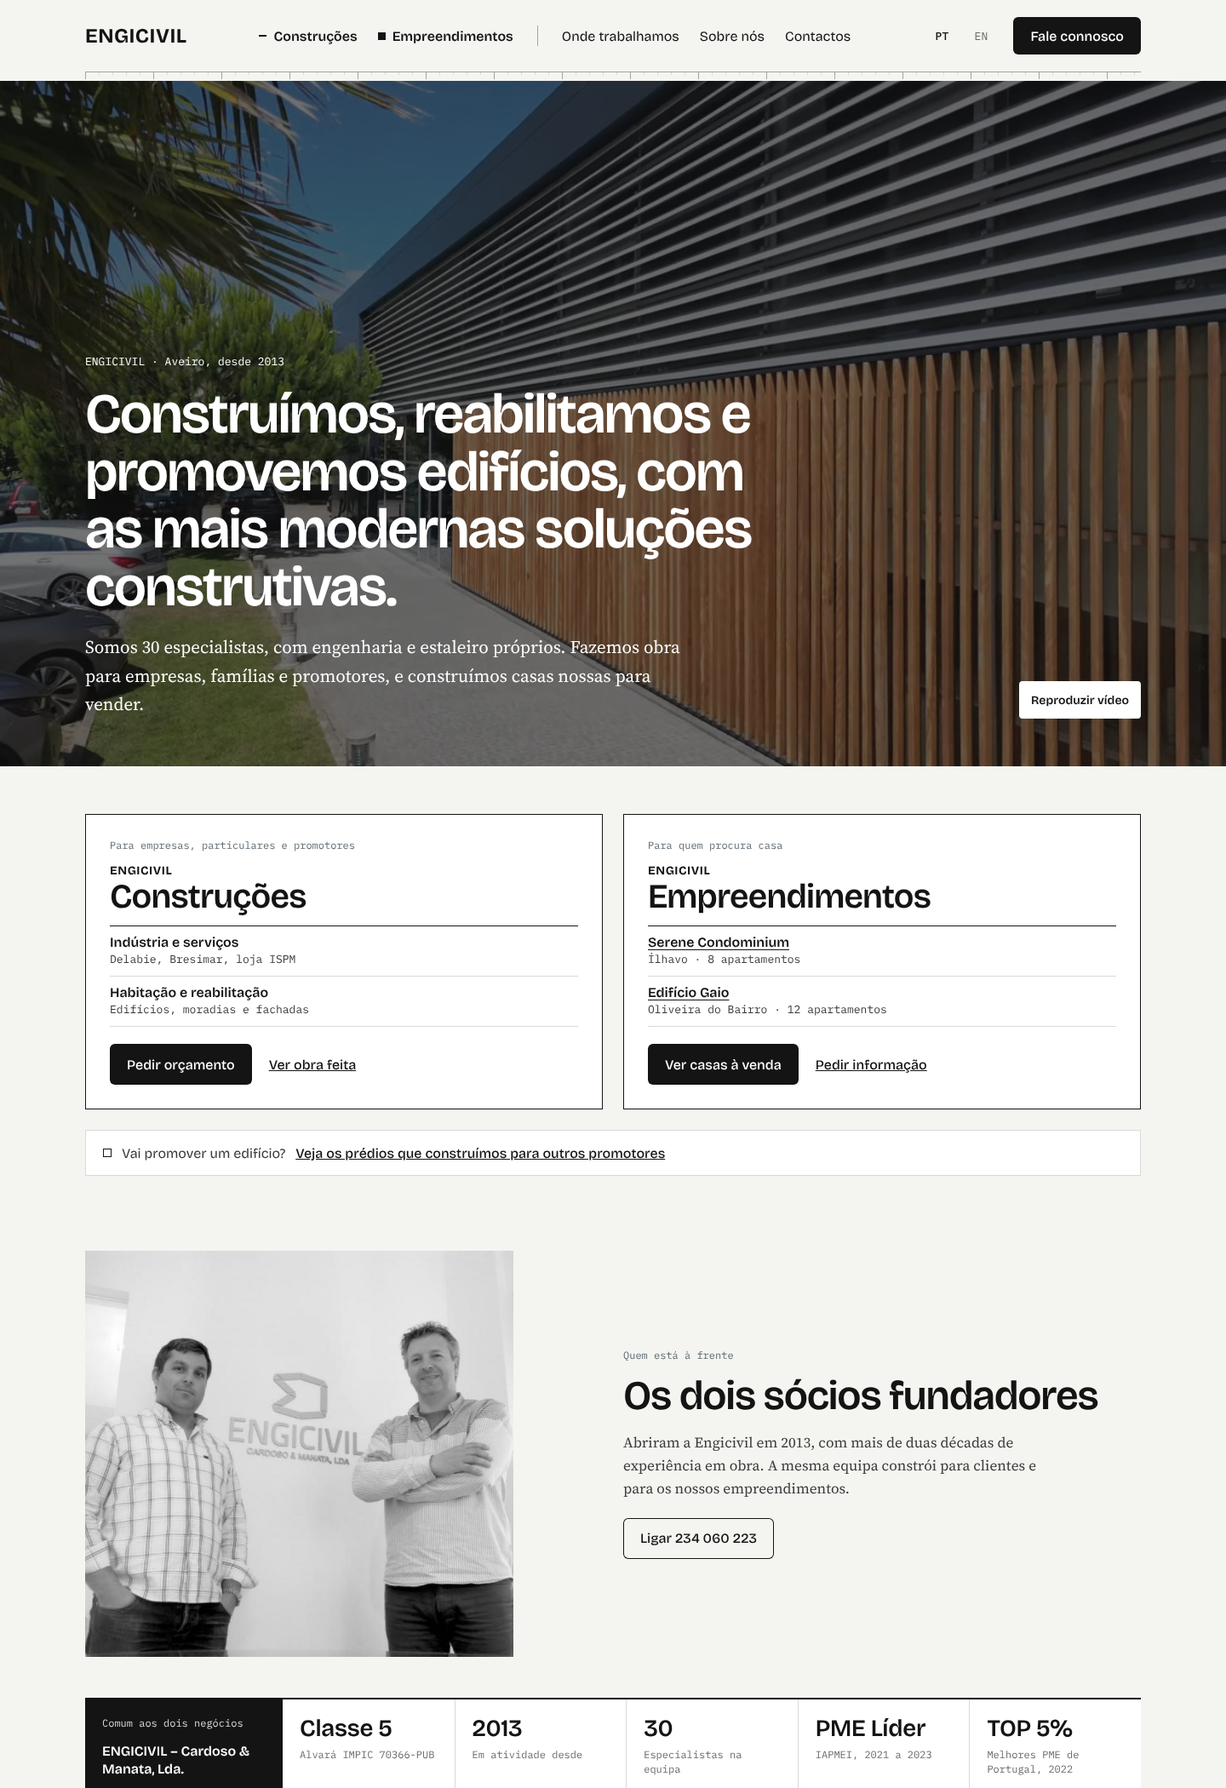
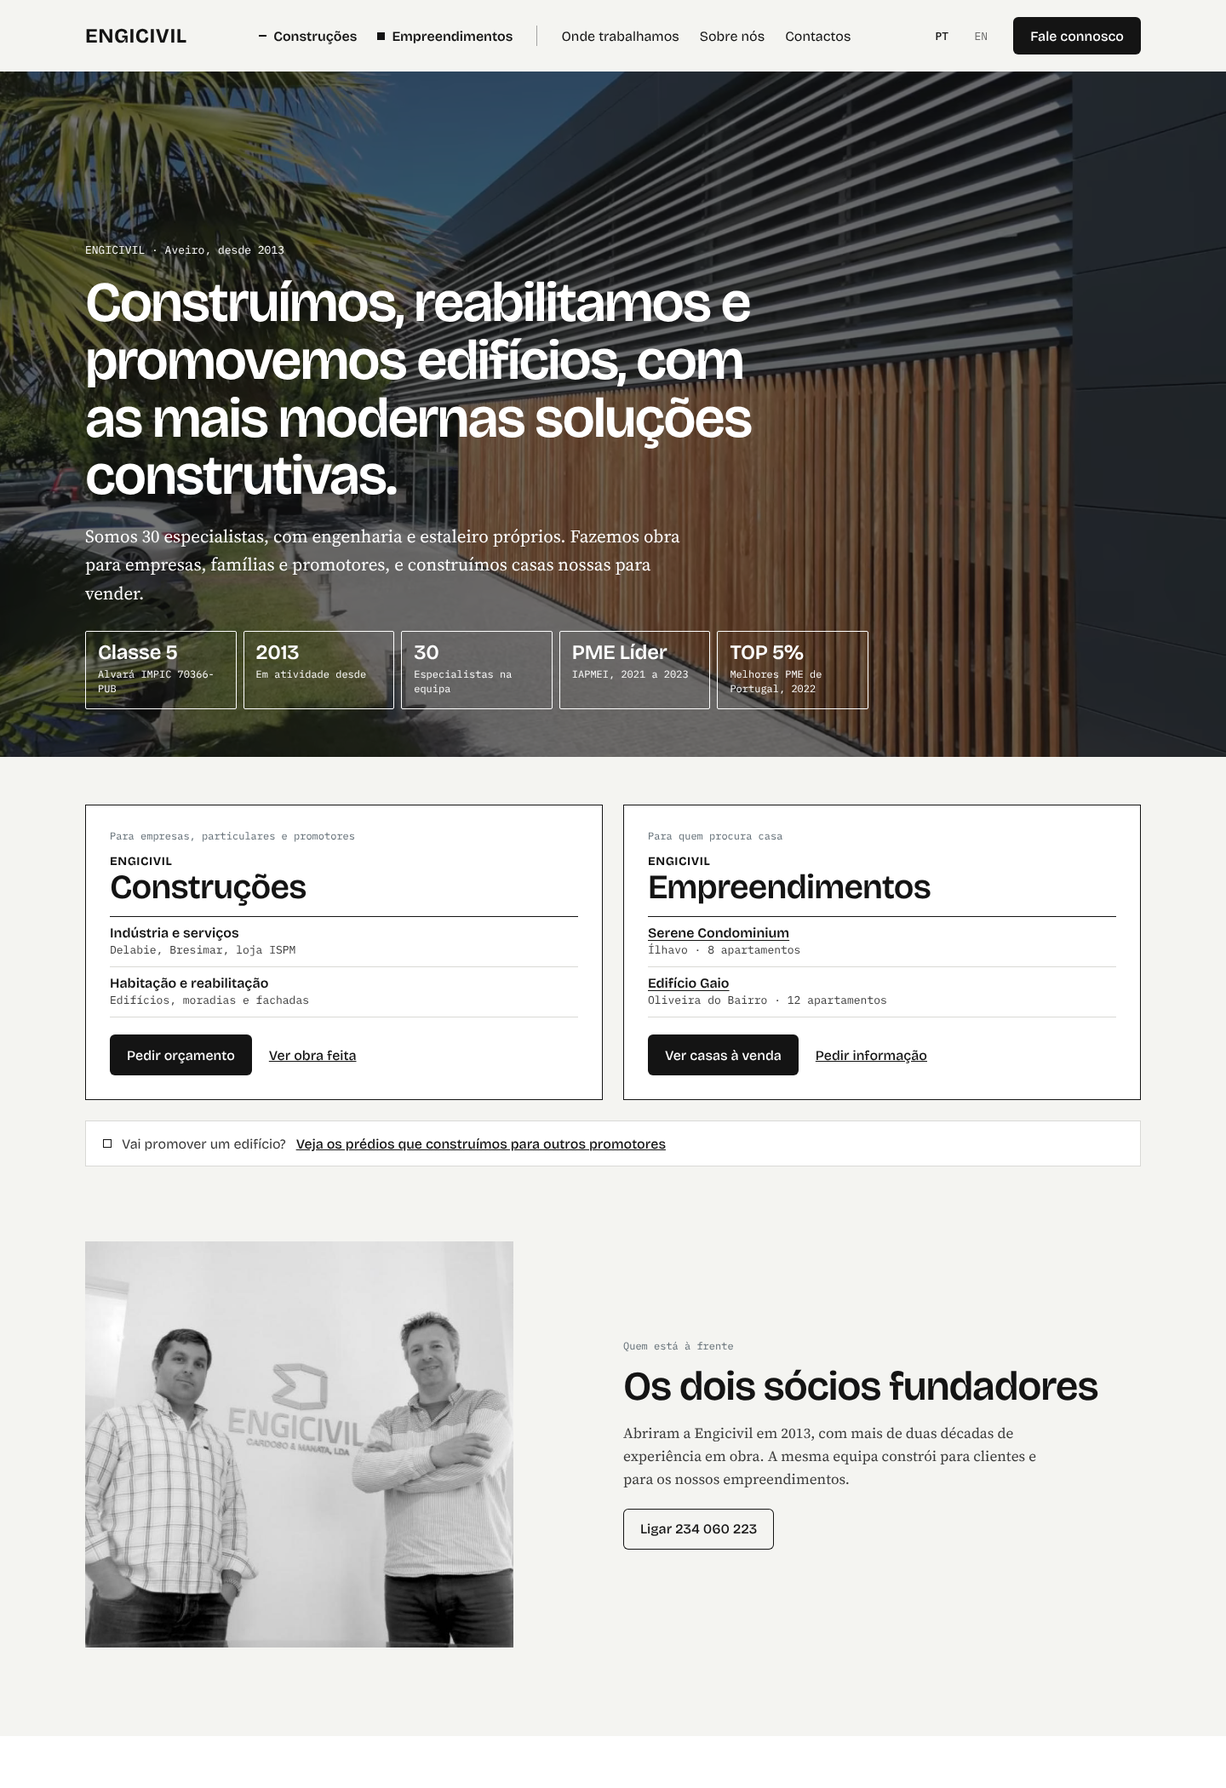
G: carimbos dentro do hero, sem régua nem botão de pausa
- Régua do cabeçalho removida
- Botão «Pausar vídeo» removido (o vídeo continua a respeitar reduzir movimento e poupança de dados)
- Carimbo passa da secção dos sócios para o hero, por baixo do subtítulo, como 5 carimbos individuais
- STATUS e LOG da G; capturas

Claude-Session: https://claude.ai/code/session_019up6xpm4ofoFJjoF8E32hc

diff --git a/prototypes/g/styles.css b/prototypes/g/styles.css
@@ -121,22 +121,18 @@ img { max-width: 100%; }
 .biz-bar a { display: flex; flex-direction: column; justify-content: center; min-height: 56px; padding: 6px 12px; border: 1px solid var(--ink); border-radius: var(--radius); text-decoration: none; font-family: var(--f-ui); }
 .biz-bar__name { font-size: 1.0625rem; font-weight: 600; }
 
-.ruler svg { display: block; border-top: 1px solid var(--g400); }
 
 /* ---------- Hero: vídeo a toda a largura, título por cima ---------- */
 /* Véu escuro liso (sem gradiente): com 60 %, mesmo um píxel branco do vídeo fica a 4,8:1 contra texto branco (AA). Texto do hero só em branco. */
 .hero { position: relative; isolation: isolate; display: flex; align-items: flex-end; min-height: clamp(560px, calc(100svh - 95px), 820px); overflow: hidden; background: var(--ink); color: var(--white); }
 .hero::before { content: ""; position: absolute; inset: 0; z-index: -1; background: rgb(20 20 20 / 0.6); }
 .hero-video { position: absolute; inset: 0; z-index: -2; display: block; width: 100%; height: 100%; object-fit: cover; }
-.hero-inner { flex: 1 1 auto; min-width: 0; padding-top: 96px; padding-bottom: 56px; display: flex; flex-wrap: wrap; align-items: flex-end; justify-content: space-between; gap: 24px; }
-.hero-intro { display: flex; flex-direction: column; gap: 20px; max-width: 820px; }
+.hero-inner { flex: 1 1 auto; min-width: 0; padding-top: 96px; padding-bottom: 56px; }
+.hero-intro { display: flex; flex-direction: column; gap: 20px; max-width: 920px; }
 .hero-eyebrow { margin: 0; font-family: var(--f-mono); font-size: 13px; color: var(--white); }
 .hero-title { margin: 0; font-family: var(--f-ui); font-size: clamp(2.25rem, 4.6vw, 4.25rem); line-height: 1.02; font-weight: 600; letter-spacing: -0.03em; max-width: 20ch; }
 .hero-lead { margin: 0; font-size: clamp(1.125rem, 1.5vw, 1.3125rem); line-height: 1.6; color: var(--white); max-width: 34em; }
 .hero :focus-visible { outline-color: var(--white); }
-.video-toggle { display: none; flex: none; min-height: 44px; padding: 0 14px; border: 0; border-radius: 4px; background: var(--white); color: var(--ink); font-family: var(--f-ui); font-size: 0.875rem; font-weight: 600; cursor: pointer; }
-.js .video-toggle { display: inline-flex; align-items: center; }
-.video-toggle:hover { background: var(--paper); }
 
 /* ---------- Os dois negócios (cartões só de texto) ---------- */
 .paths-sec { padding: 56px 0 0; }
@@ -162,9 +158,8 @@ img { max-width: 100%; }
 .fig-cap { display: grid; grid-template-columns: 52px minmax(0, 1fr); gap: 12px; font-size: 0.9375rem; line-height: 1.5; color: var(--g700); }
 .fig-cap__n { font-family: var(--f-mono); font-size: 12px; line-height: 1.9; color: var(--ink); }
 
-/* ---------- Sócios + carimbo ---------- */
+/* ---------- Sócios fundadores ---------- */
 .founders { padding: 88px 0 104px; }
-.founders > .wrap { display: flex; flex-direction: column; gap: 48px; }
 .founders__img { display: block; width: 100%; aspect-ratio: 770 / 730; object-fit: cover; }
 .founders__text { display: flex; flex-direction: column; gap: 16px; }
 .founders__text .kicker { margin: 0; }
@@ -172,16 +167,11 @@ img { max-width: 100%; }
 .founders__title { margin: 0; font-family: var(--f-ui); font-size: clamp(2rem, 3.4vw, 3rem); line-height: 1.04; font-weight: 600; letter-spacing: -0.025em; }
 .founders__text .actions { margin-top: 4px; }
 
-/* Carimbo (como o bloco de legenda de um desenho técnico): rótulo escuro + 5 factos */
-.proof { display: grid; grid-template-columns: minmax(0, 232px) minmax(0, 1fr); background: var(--white); border-top: 2px solid var(--ink); border-bottom: 1px solid var(--ink); }
-.proof__label { margin: 0; padding: 20px; display: flex; flex-direction: column; justify-content: space-between; gap: 12px; background: var(--ink); color: var(--white); }
-.proof__kicker { font-family: var(--f-mono); font-size: 12px; line-height: 1.4; color: var(--g200); }
-.proof__name { font-family: var(--f-ui); font-size: 1rem; line-height: 1.3; font-weight: 600; }
-.facts { margin: 0; display: grid; grid-template-columns: repeat(5, minmax(0, 1fr)); }
-.facts > div { padding: 20px 20px 22px; border-left: 1px solid var(--g200); display: flex; flex-direction: column-reverse; justify-content: flex-end; gap: 8px; }
-.facts > div:first-child { border-left: 0; }
-.facts dt { font-family: var(--f-mono); font-size: 12px; line-height: 1.45; color: var(--g500); }
-.facts dd { margin: 0; font-family: var(--f-ui); font-size: 1.75rem; line-height: 1; font-weight: 600; letter-spacing: -0.01em; white-space: nowrap; }
+/* Carimbos: um por facto, por baixo do subtítulo do hero (contorno branco sobre o véu) */
+.stamps { margin: 8px 0 0; display: grid; grid-template-columns: repeat(5, minmax(0, 1fr)); gap: 8px; }
+.stamps > div { padding: 12px 14px 14px; border: 1px solid var(--white); border-radius: 2px; display: flex; flex-direction: column-reverse; justify-content: flex-end; gap: 6px; }
+.stamps dt { font-family: var(--f-mono); font-size: 12px; line-height: 1.4; color: var(--white); }
+.stamps dd { margin: 0; font-family: var(--f-ui); font-size: 1.5rem; line-height: 1; font-weight: 600; letter-spacing: -0.01em; white-space: nowrap; }
 
 /* ---------- Cabeçalho de secção ---------- */
 .sec-head { row-gap: 16px; border-top: 2px solid var(--ink); padding-top: 20px; }
@@ -367,15 +357,10 @@ textarea.input { padding: 12px; line-height: 1.5; resize: vertical; }
   .nav-sep { display: none; }
   .header-tools { margin-top: 16px; justify-content: space-between; }
   .biz-bar { display: grid; grid-template-columns: repeat(2, minmax(0, 1fr)); gap: 8px; padding-bottom: 12px; }
-  .ruler { display: none; }
 }
 
 /* ---------- Ecrãs médios (≤ 1080 px) ---------- */
 @media (max-width: 1080px) {
-  .proof { grid-template-columns: minmax(0, 1fr); }
-  .proof__label { flex-direction: row; flex-wrap: wrap; align-items: baseline; padding: 12px 16px; }
-  .facts > div { padding: 16px 12px 18px; }
-  .facts dd { font-size: 1.25rem; }
   .ix-head { display: none; }
   .ix-place { grid-template-columns: minmax(0, 1fr); row-gap: 12px; }
   .ix-entry .m-label { display: block; }
@@ -394,14 +379,9 @@ textarea.input { padding: 12px; line-height: 1.5; resize: vertical; }
   .path__name { font-size: 2.25rem; }
   .paths-sec { padding-top: 32px; }
   .founders { padding: 72px 0 88px; }
-  .founders > .wrap { gap: 40px; }
-  .facts { grid-template-columns: repeat(2, minmax(0, 1fr)); }
-  .facts > div { padding: 16px; border-left: 0; border-top: 1px solid var(--g200); }
-  .facts > div:first-child { border-top: 0; }
-  .facts > div:nth-child(2) { border-top: 0; }
-  .facts > div:nth-child(even) { border-left: 1px solid var(--g200); }
-  .facts > div:last-child { grid-column: 1 / -1; }
-  .facts dd { font-size: 1.5rem; }
+  .stamps { display: grid; grid-template-columns: repeat(2, minmax(0, 1fr)); }
+  .stamps > div:last-child { grid-column: 1 / -1; }
+  .stamps dd { font-size: 1.25rem; }
 
   .pair, .areas, .boxes, .steps, .fields, .radios, .foot { grid-template-columns: minmax(0, 1fr); }
   .areas { gap: 32px; }

diff --git a/prototypes/g/index.html b/prototypes/g/index.html
@@ -48,26 +48,11 @@
     <a href="#construcoes"><span class="sb-pre">ENGICIVIL</span><span class="biz-bar__name">Construções</span></a>
     <a href="#empreendimentos"><span class="sb-pre">ENGICIVIL</span><span class="biz-bar__name">Empreendimentos</span></a>
   </nav>
-  <!-- Régua discreta -->
-  <div class="ruler wrap" aria-hidden="true">
-    <svg width="100%" height="10">
-      <defs>
-        <pattern id="g-ruler" width="80" height="10" patternUnits="userSpaceOnUse">
-          <line x1="0.5" y1="0" x2="0.5" y2="8" stroke="#a3a3a3" stroke-width="1"></line>
-          <line x1="16.5" y1="0" x2="16.5" y2="3" stroke="#d9d9d6" stroke-width="1"></line>
-          <line x1="32.5" y1="0" x2="32.5" y2="3" stroke="#d9d9d6" stroke-width="1"></line>
-          <line x1="48.5" y1="0" x2="48.5" y2="3" stroke="#d9d9d6" stroke-width="1"></line>
-          <line x1="64.5" y1="0" x2="64.5" y2="3" stroke="#d9d9d6" stroke-width="1"></line>
-        </pattern>
-      </defs>
-      <rect x="0" y="0" width="100%" height="10" fill="url(#g-ruler)"></rect>
-    </svg>
-  </div>
 </header>
 
 <main id="conteudo">
 
-  <!-- Hero: vídeo a toda a largura, com o título e o subtítulo por cima -->
+  <!-- Hero: vídeo a toda a largura, com o título, o subtítulo e os carimbos por cima -->
   <section class="hero" aria-labelledby="h-hero">
     <video class="hero-video" muted loop playsinline preload="metadata" poster="/video/delabie-percurso-poster.jpg" aria-label="Vídeo: percurso pelo edifício da Delabie, requalificado pela Engicivil. Fachada em ripado de madeira, receção e showroom.">
       <source src="/video/delabie-percurso.mp4" type="video/mp4">
@@ -78,8 +63,15 @@
         <p class="hero-eyebrow">ENGICIVIL · Aveiro, desde 2013</p>
         <h1 id="h-hero" class="hero-title">Construímos, reabilitamos e promovemos edifícios, com as mais modernas soluções construtivas.</h1>
         <p class="hero-lead">Somos 30 especialistas, com engenharia e estaleiro próprios. Fazemos obra para empresas, famílias e promotores, e construímos casas nossas para vender.</p>
+        <!-- Carimbos: prova comum aos dois negócios -->
+        <dl class="stamps" aria-label="Comum aos dois negócios: ENGICIVIL – Cardoso &amp; Manata, Lda.">
+          <div><dt>Alvará IMPIC 70366-PUB</dt><dd>Classe 5</dd></div>
+          <div><dt>Em atividade desde</dt><dd>2013</dd></div>
+          <div><dt>Especialistas na equipa</dt><dd>30</dd></div>
+          <div><dt>IAPMEI, 2021 a 2023</dt><dd>PME Líder</dd></div>
+          <div><dt>Melhores PME de Portugal, 2022</dt><dd>TOP 5%</dd></div>
+        </dl>
       </div>
-      <button type="button" class="video-toggle">Pausar vídeo</button>
     </div>
   </section>
 
@@ -132,7 +124,7 @@
     </div>
   </section>
 
-  <!-- Os sócios e o carimbo: prova comum aos dois negócios -->
+  <!-- Os sócios fundadores -->
   <section class="founders" aria-labelledby="h-founders">
     <div class="wrap">
       <div class="founders__grid grid align-center">
@@ -143,18 +135,6 @@
           <p class="body">Abriram a Engicivil em 2013, com mais de duas décadas de experiência em obra. A mesma equipa constrói para clientes e para os nossos empreendimentos.</p>
           <div class="actions"><a href="tel:+351234060223" class="btn btn--line">Ligar 234 060 223</a></div>
         </div>
-      </div>
-
-      <!-- Carimbo -->
-      <div class="proof">
-        <p class="proof__label"><span class="proof__kicker">Comum aos dois negócios</span><span class="proof__name">ENGICIVIL – Cardoso &amp; Manata, Lda.</span></p>
-        <dl class="facts">
-          <div><dt>Alvará IMPIC 70366-PUB</dt><dd>Classe 5</dd></div>
-          <div><dt>Em atividade desde</dt><dd>2013</dd></div>
-          <div><dt>Especialistas na equipa</dt><dd>30</dd></div>
-          <div><dt>IAPMEI, 2021 a 2023</dt><dd>PME Líder</dd></div>
-          <div><dt>Melhores PME de Portugal, 2022</dt><dd>TOP 5%</dd></div>
-        </dl>
       </div>
     </div>
   </section>

diff --git a/prototypes/g/main.js b/prototypes/g/main.js
@@ -33,19 +33,12 @@ if (header && toggle && menu) {
   })
 }
 
-// Vídeo do hero: arranca sem som, com botão de pausa (WCAG 2.2.2).
+// Vídeo do hero: arranca sem som, em ciclo.
 // Se o sistema pedir menos movimento, ou houver poupança de dados, fica parado na imagem de capa.
 const video = document.querySelector('.hero-video')
-const videoToggle = document.querySelector('.video-toggle')
 
-if (video && videoToggle) {
-  const setLabel = () => { videoToggle.textContent = video.paused ? 'Reproduzir vídeo' : 'Pausar vídeo' }
-  video.addEventListener('play', setLabel)
-  video.addEventListener('pause', setLabel)
-  videoToggle.addEventListener('click', () => (video.paused ? video.play() : video.pause()))
-
+if (video) {
   const reduce = matchMedia('(prefers-reduced-motion: reduce)').matches
   const saveData = navigator.connection?.saveData
-  if (reduce || saveData) setLabel()
-  else video.play().catch(setLabel)
+  if (!reduce && !saveData) video.play().catch(() => {})
 }

diff --git a/sessions/g/STATUS.md b/sessions/g/STATUS.md
@@ -7,16 +7,19 @@
 - `prototypes/g/index.html` = **homepage**, sem estilos inline. Igual ao mockup `G-BD` a 1440 px, exceto o hero (revisto, ver abaixo).
 - `prototypes/g/styles.css` = CSS partilhado do G: tokens (`--ink`, `--g700`…`--g200`, `--paper`, `--accent`, `--f-ui/--f-text/--f-mono`, `--wrap`, `--gutter`), utilitários de grelha (`.grid` 12 colunas + `.span-N`/`.start-N`) e componentes (`.sec-head`, `.path`, `.dev`, `.spec`, `.ix-*`, `.cred`, `.form`…). **Páginas novas do G devem usar este ficheiro.**
 - `prototypes/g/main.js` = menu recolhido do cabeçalho (abre/fecha, `aria-expanded`, Esc devolve o foco, fecha ao escolher destino). Sem JS o menu fica visível.
-- **Topo da homepage (sessão 2, pedido do António, 22/10)** — três blocos, por esta ordem:
-  1. **Hero = vídeo a toda a largura** (percurso pela obra da Delabie, `public/video/`, 1280×720), com o **título e o subtítulo por cima**, em branco: «ENGICIVIL · Aveiro, desde 2013» + «Construímos, reabilitamos e promovemos edifícios, com as mais modernas soluções construtivas.» + texto dos 30 especialistas. Altura: ecrã inteiro menos o cabeçalho (560–820 px; telemóvel 520–720 px). Véu escuro liso a 60 % (sem gradiente) → texto branco com ≥ 4,8:1 mesmo sobre o píxel mais claro do vídeo (medido em 17 fotogramas). Botão «Pausar vídeo» no canto inferior direito; não arranca com «reduzir movimento» nem com poupança de dados.
-  2. **Os dois negócios** lado a lado, **sem imagens** (cartões só de texto, mesma altura): Construções (Indústria e serviços · Habitação e reabilitação) e Empreendimentos (Serene e Gaio, com link para `#serene` / `#gaio`). Por baixo, o terceiro caminho para promotores → `#locais`.
-  3. **Secção nova «Os dois sócios fundadores»**: foto dos sócios (span 5, sem legenda) + título, texto factual (2013, mais de duas décadas de experiência, a mesma equipa constrói para clientes e para os empreendimentos) e botão «Ligar 234 060 223»; por baixo, **o carimbo** (rótulo escuro «Comum aos dois negócios / ENGICIVIL – Cardoso & Manata, Lda.» + 5 factos: Classe 5 · 2013 · 30 · PME Líder · TOP 5%).
-  - O botão «Ligar» saiu do hero e passou para a secção dos sócios.
-  - Figuras: a foto dos sócios não tem número (Fig. 1–6 continuam como estavam: antes/depois, mosaico, Serene/Gaio, diagrama).
+- **Topo da homepage (sessão 2, pedidos do António, 22/10)** — por esta ordem:
+  1. **Hero = vídeo a toda a largura** (percurso pela obra da Delabie, `public/video/`, 1280×720), em ciclo e sem som. Por cima, em branco: «ENGICIVIL · Aveiro, desde 2013», o título «Construímos, reabilitamos e promovemos edifícios, com as mais modernas soluções construtivas.», o subtítulo dos 30 especialistas e, por baixo, **os carimbos**: 5 caixas com contorno branco (Classe 5 · 2013 · 30 · PME Líder · TOP 5%), 5 colunas no desktop/tablet e 2 no telemóvel (TOP 5% a toda a largura). O `<dl>` tem `aria-label` «Comum aos dois negócios: ENGICIVIL – Cardoso & Manata, Lda.».
+     - Véu escuro liso a 60 % (sem gradiente) → texto branco com ≥ 4,8:1 mesmo sobre o píxel mais claro do vídeo (medido em 17 fotogramas).
+     - **Sem botão de pausa** (retirado a pedido do António). ⚠ Falha o critério WCAG 2.2.2 (nível A: movimento automático > 5 s tem de poder ser pausado). Continua a respeitar «reduzir movimento» e poupança de dados (fica parado na capa). Ver próximos passos.
+     - Altura: ecrã inteiro menos o cabeçalho (560–820 px; telemóvel 520–720 px).
+  2. **Os dois negócios** lado a lado, **sem imagens** (cartões só de texto, mesma altura): Construções (Indústria e serviços · Habitação e reabilitação) e Empreendimentos (Serene e Gaio, link para `#serene` / `#gaio`). Por baixo, o terceiro caminho para promotores → `#locais`.
+  3. **Secção «Os dois sócios fundadores»**: foto (span 5, sem legenda) + título, texto factual e botão «Ligar 234 060 223».
+  - **Régua do cabeçalho removida** (pedido do António).
+  - A barra do carimbo (`.proof`/`.facts`) deixou de existir; foi substituída por `.stamps` no hero.
 - Tipografia: Bricolage Grotesque (títulos) + Source Serif 4 (texto) + IBM Plex Mono (dados).
 - Responsivo:
   - **≤ 1200 px:** botão «Menu» + barra dos dois negócios (Construções | Empreendimentos) sempre à vista.
-  - **761–1080 px (tablet):** cartões de negócio lado a lado; sócios foto | texto; carimbo com rótulo numa linha e 5 factos; índice «Onde trabalhamos» com o local por cima das obras.
+  - **761–1080 px (tablet):** cartões de negócio lado a lado; sócios foto | texto; carimbos em 5 colunas; índice «Onde trabalhamos» com o local por cima das obras.
   - **≤ 760 px:** uma coluna (como no mockup móvel), factos em 2 colunas com tamanho reduzido (já não transbordam).
   - Sem scroll horizontal a 390, 768, 1024, 1280 e 1440 px.
 - Acessibilidade acrescentada: link «Saltar para o conteúdo», `<main>`, alvos de 44 px no seletor PT/EN e no rodapé, foco visível no rodapé escuro, borda do rádio «Outro assunto» com contraste 3:1, opção escolhida do formulário destacada.
@@ -25,7 +28,8 @@
 1. **Páginas interiores** (a confirmar com o António quais e por que ordem): **Construções** · **Empreendimentos** (listagem) · **Serene** · **Gaio** · **Prédios construídos para terceiros** · **Obra / portefólio** (os links «Ver os N projetos…», «Ver o Serene», «Saber mais» ainda apontam para `#`) · **Sobre** · **Contactos**. Cada uma: `prototypes/g/<pagina>/index.html` + entrada em `vite.config.js`, usando `../styles.css`.
 2. Formulário de contacto (só front-end): validação com mensagens em PT, estado «pedido enviado», pré-selecionar o tipo de pedido/edifício a partir dos CTAs («Pedir informação» do Serene → «Comprar casa» + Serene).
 3. Opcional: indicar a secção atual no menu (scroll-spy com `aria-current`).
-4. Rever com o António o novo topo (capturas `screenshots/g/2026-10-22-hero-full-1440.png` / `-390.png`): intensidade do véu sobre o vídeo (60 %), altura do hero, se o «Ligar» volta ao hero, e a versão tablet.
+4. Rever com o António o novo topo (capturas `screenshots/g/2026-10-22-hero-full-1440.png` / `-390.png`): intensidade do véu (60 %) e altura do hero.
+   - **Pausa do vídeo:** sem o botão, a página falha WCAG 2.2.2. Propor uma solução discreta (ex.: ícone pequeno de pausa num canto, ou o vídeo parar ao fim de um ciclo de 34 s, ou só arrancar ao passar o rato).
 5. Vídeo a toda a largura usa 720p esticado até 1440 px — fica ligeiramente suave em ecrãs grandes. Se o António tiver o original em 1080p, gerar uma versão 1080p (H.264 + WebM) para ≥ 1280 px.
 6. A foto dos sócios mostra o logótipo antigo ao fundo — substituir quando houver identidade nova.
 

diff --git a/sessions/g/LOG.md b/sessions/g/LOG.md
@@ -9,6 +9,7 @@ Entrada nova **no topo**. Formato: data · branch · o que mudou · decisões ·
 - Cartões dos negócios só com texto (sai a regra de cartão horizontal ≥ 1081 px). Nova secção `.founders`: foto + texto + «Ligar», carimbo por baixo.
 - Sem scroll horizontal a 390, 1024 e 1440 px.
 - Capturas: `screenshots/g/2026-10-22-hero-full-1440.png`, `…-hero-full-390.png`, `…-g-desktop.png`, `…-g-mobile.png`. Preview: link do Vercel no PR.
+- 2.ª ronda (pedido do António): régua do cabeçalho removida; botão «Pausar vídeo» removido (⚠ falha WCAG 2.2.2, registado no STATUS); o carimbo passou da secção dos sócios para dentro do hero, por baixo do subtítulo, como 5 carimbos individuais com contorno branco em vez de barra.
 
 ## 2026-10-22 · claude/wonderful-volta-b4600b · sessão 1 (cont.): vídeo no hero
 - O António enviou o vídeo do hero do site atual (percurso pela obra da Delabie, 1080p, 34 s, 25 MB). Comprimido para 720p sem som: MP4 H.264 (4,3 MB) + WebM VP9 (4,4 MB) + capa JPG, em `public/video/`.
